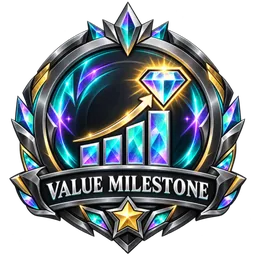
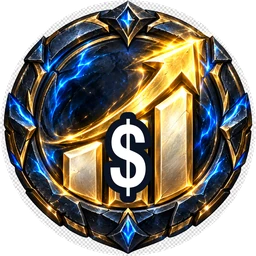
Badges: clean artwork, and a trophy case on every profile

diff --git a/components/profile.js b/components/profile.js
@@ -448,6 +448,84 @@
     `;
   }
 
+  /* ======================================================================
+     THE TROPHY CASE
+
+     Earned badges only, in color, big enough to tell apart. The rule that
+     shaped this is in GOALS-NEXT.md and it is worth repeating: never below
+     84px, and the NAME always as real text beside the art. At small sizes
+     every medallion in the set shares one silhouette and they read as
+     identical silver blobs.
+
+     SOMEBODY ELSE'S PROFILE LOOKS LIKE YOURS. Five of the eight badges --
+     Gem Mint Ten, Grade Ladder, Monthly Momentum, Yearlong Collector, Value
+     Milestone -- are never written down anywhere. They are worked out live
+     from a collection. The goals engine already takes a user id for every
+     one of its calls, and the database rule that lets anybody read a public
+     profile's cards is the same one the collection further down this page
+     already leans on -- so the same eight can be worked out for whoever is
+     being looked at, not just for whoever is looking.
+
+     It fails quietly. A trophy case that cannot load is a missing row of
+     badges, not a broken profile: everything else on this page is worth
+     reading on its own.
+     ====================================================================== */
+  async function paintTrophies(userId){
+    const box = document.getElementById('profile-badges');
+    if(!box || !userId) return;
+    const G = window.InfinitePullsCollectorGoals;
+    if(!G) return;
+
+    let mine = false;
+    try{
+      const { data } = await client().auth.getUser();
+      mine = !!(data && data.user && data.user.id === userId);
+    }catch{}
+
+    let earned = [];
+    try{
+      const ctx = await G.buildContext(userId);
+      const picked = await G.loadUserGoals(userId);
+      const chosen = await G.computeAllProgress(userId, picked || [], ctx);
+      const skip = new Set((picked || []).map(r => r.template_id).filter(Boolean));
+      const auto = await G.computeAutoProgress(userId, ctx, skip);
+      earned = [...chosen, ...auto].filter(r => r && r.progress && r.progress.complete);
+    }catch(err){
+      console.warn('Could not work out badges', err);
+      return;                       /* silence beats a broken-looking page */
+    }
+
+    if(!earned.length){
+      /* On your own profile an empty case is an invitation. On somebody
+         else's it is just an empty box, so it does not appear at all. */
+      if(!mine) return;
+      box.innerHTML = `<a class="trophy-invite" href="?page=goals" data-route="goals">
+        <strong>No badges yet</strong><span>Pick a goal and start earning them</span></a>`;
+      box.hidden = false;
+      return;
+    }
+
+    /* Newest first where we know, so a profile leads with what somebody just
+       did rather than with whatever happens to sort first. */
+    earned.sort((a, b) => {
+      const at = a.userGoal?.completed_at ? Date.parse(a.userGoal.completed_at) : 0;
+      const bt = b.userGoal?.completed_at ? Date.parse(b.userGoal.completed_at) : 0;
+      return bt - at;
+    });
+
+    box.innerHTML = earned.map(r => {
+      const name = r.eff?.name || 'Badge';
+      const art = r.eff?.badgeImage;
+      return `<div class="trophy">
+        ${art
+          ? `<img src="${escapeHtml(art)}" alt="" width="96" height="96" loading="lazy" decoding="async">`
+          : `<span class="trophy-emoji" aria-hidden="true">${escapeHtml(r.eff?.icon || '🏆')}</span>`}
+        <strong>${escapeHtml(name)}</strong>
+      </div>`;
+    }).join('');
+    box.hidden = false;
+  }
+
   async function init(username){
     const el = root();
     if(!el) return;
@@ -512,6 +590,12 @@
             ${joined ? `<small style="color:var(--muted)">Collecting with Infinite Pulls since ${escapeHtml(joined)}</small>` : ''}
           </div>
         </div>
+        <!-- THE TROPHY CASE.
+             Filled in after the page draws, not before: five of the eight
+             badges are worked out from this person's cards and prices rather
+             than read from a row, and nobody should look at a blank screen
+             while that happens. Empty until it has something true to say. -->
+        <div id="profile-badges" class="trophies" hidden></div>
         ${profile.bio ? `<p style="margin-top:14px">${escapeHtml(profile.bio)}</p>` : ''}
         ${tags.length ? `<div style="display:flex; flex-wrap:wrap; gap:8px; margin-top:${profile.bio ? '10px' : '14px'}">
           ${tags.map(t => `<span style="background:rgba(255,201,40,.1);border:1px solid rgba(255,201,40,.3);color:var(--gold);border-radius:999px;padding:5px 12px;font-size:.8rem;font-weight:700;">${escapeHtml(t)}</span>`).join('')}
@@ -565,6 +649,8 @@
         </section>
       ` : ''}
     `;
+
+    paintTrophies(profile.id);
 
     document.getElementById('share-card-btn')?.addEventListener('click', (e) => {
       shareCollectorCard({

diff --git a/style.css b/style.css
@@ -1766,6 +1766,39 @@ body.import-open{overflow:hidden}
   flex:1 1 auto;min-width:0;padding:14px 10px;
   border-radius:14px;font-size:1.02rem;text-align:center;white-space:nowrap
 }
+/* ---- THE TROPHY CASE ON A PROFILE --------------------------------------
+   Earned badges, in color, directly under the name. 96px of art with the
+   goal's name as real text beneath it -- the set shares one silhouette, so
+   below about 84px they stop being eight badges and become eight silver
+   smudges. It scrolls sideways rather than pushing the bio and the stats
+   down the page on somebody with a full case. */
+.trophies{
+  /* The gap and the tile width are picked so the FOURTH badge peeks past the
+     edge at 393px. Three fitting exactly is worse than it sounds: the row
+     ends cleanly and nothing says there is more to the right. */
+  display:flex;gap:12px;margin-top:16px;padding-bottom:4px;
+  overflow-x:auto;overscroll-behavior-x:contain;
+  scrollbar-width:none;-webkit-overflow-scrolling:touch;
+}
+.trophies::-webkit-scrollbar{display:none}
+.trophies[hidden]{display:none}
+.trophy{
+  flex:0 0 auto;width:100px;display:flex;flex-direction:column;align-items:center;gap:6px;text-align:center;
+}
+.trophy img{width:96px;height:96px;object-fit:contain;display:block}
+.trophy-emoji{font-size:3rem;line-height:96px;height:96px;display:block}
+.trophy strong{
+  font-size:.72rem;line-height:1.25;font-weight:800;color:var(--gold);
+  letter-spacing:.02em;
+}
+.trophy-invite{
+  flex:0 0 auto;display:flex;flex-direction:column;justify-content:center;gap:4px;
+  min-height:88px;padding:14px 18px;border-radius:14px;text-decoration:none;
+  border:1px dashed var(--border);color:var(--muted);
+}
+.trophy-invite strong{color:var(--gold);font-size:.9rem}
+.trophy-invite span{font-size:.78rem}
+
 /* ARRIVED HERE FROM THE + AND THE CAMERA NEEDS ONE TAP FIRST.
    A browser only opens the camera off a user gesture, and the tap that got
    you here happened on the page before. So where permission has not already
